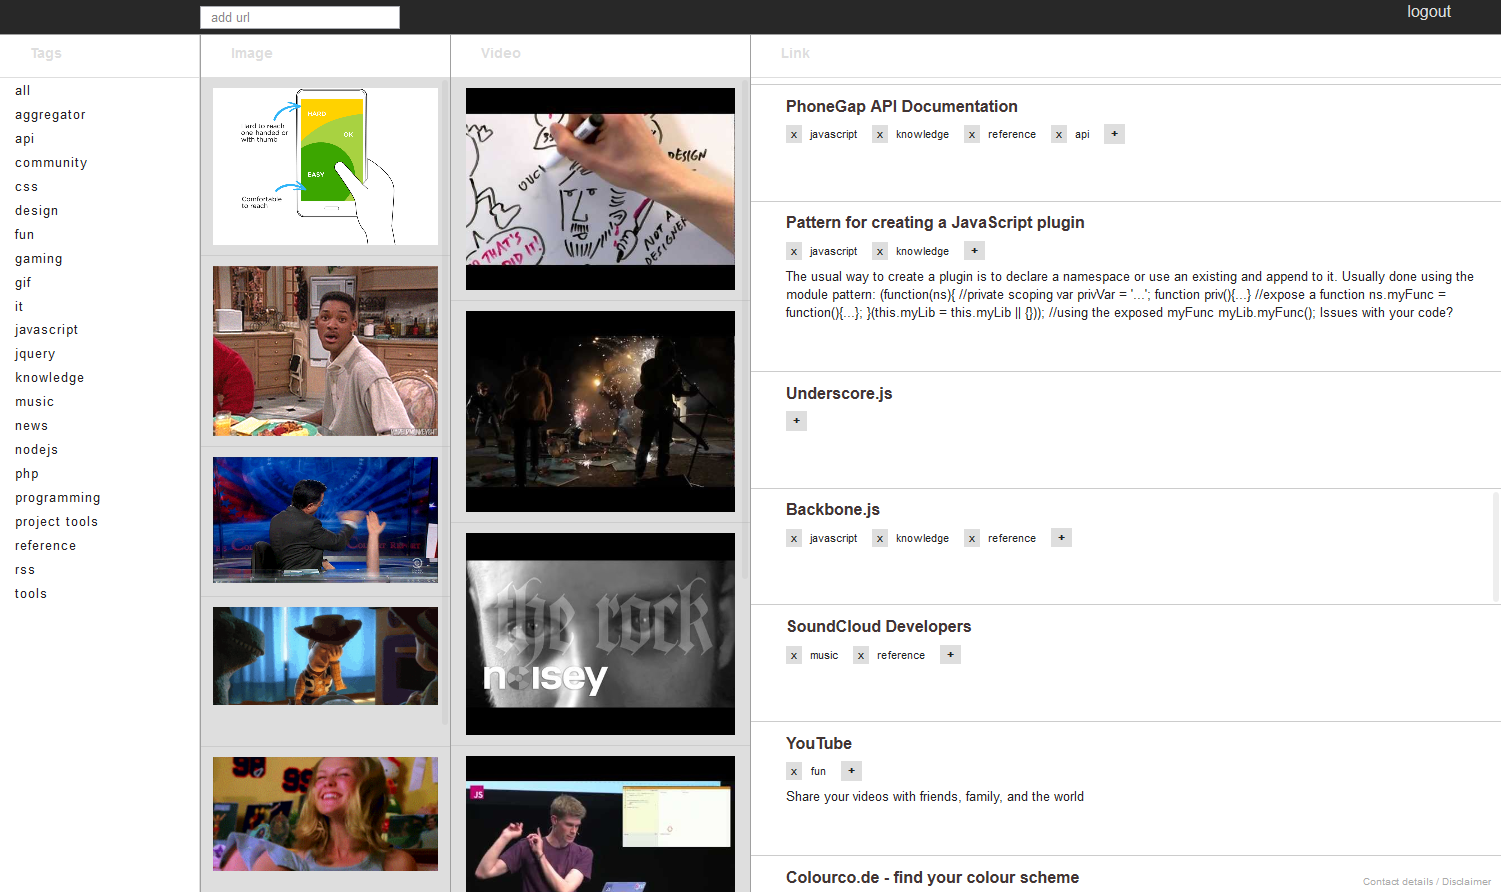
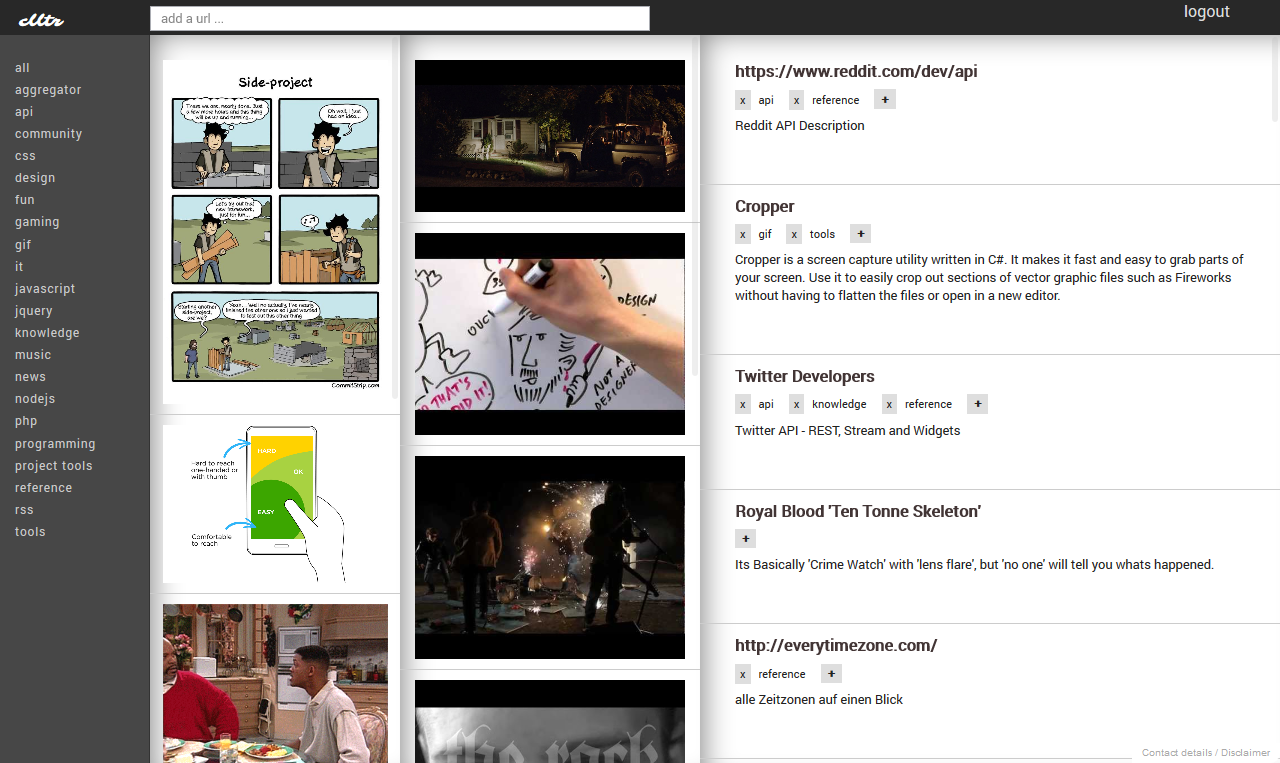
graphical update

diff --git a/style/app.css b/style/app.css
@@ -1,1 +1,1 @@
-/*! normalize.css v3.0.1 | MIT License | git.io/normalize */html{font-family:sans-serif;-ms-text-size-adjust:100%;-webkit-text-size-adjust:100%}body{margin:0}article,aside,details,figcaption,figure,footer,header,hgroup,main,nav,section,summary{display:block}audio,canvas,progress,video{display:inline-block;vertical-align:baseline}audio:not([controls]){display:none;height:0}[hidden],template{display:none}a{background:0 0}a:active,a:hover{outline:0}abbr[title]{border-bottom:1px dotted}b,strong{font-weight:700}dfn{font-style:italic}h1{font-size:2em;margin:.67em 0}mark{background:#ff0;color:#000}small{font-size:80%}sub,sup{font-size:75%;line-height:0;position:relative;vertical-align:baseline}sup{top:-.5em}sub{bottom:-.25em}img{border:0}svg:not(:root){overflow:hidden}figure{margin:1em 40px}hr{-moz-box-sizing:content-box;box-sizing:content-box;height:0}pre{overflow:auto}code,kbd,pre,samp{font-family:monospace,monospace;font-size:1em}button,input,optgroup,select,textarea{color:inherit;font:inherit;margin:0}button{overflow:visible}button,select{text-transform:none}button,html input[type=button],input[type=reset],input[type=submit]{-webkit-appearance:button;cursor:pointer}button[disabled],html input[disabled]{cursor:default}button::-moz-focus-inner,input::-moz-focus-inner{border:0;padding:0}input{line-height:normal}input[type=checkbox],input[type=radio]{box-sizing:border-box;padding:0}input[type=number]::-webkit-inner-spin-button,input[type=number]::-webkit-outer-spin-button{height:auto}input[type=search]{-webkit-appearance:textfield;-moz-box-sizing:content-box;-webkit-box-sizing:content-box;box-sizing:content-box}input[type=search]::-webkit-search-cancel-button,input[type=search]::-webkit-search-decoration{-webkit-appearance:none}fieldset{border:1px solid silver;margin:0 2px;padding:.35em .625em .75em}legend{border:0;padding:0}textarea{overflow:auto}optgroup{font-weight:700}table{border-collapse:collapse;border-spacing:0}td,th{padding:0}/*! HTML5 Boilerplate v4.3.0 | MIT License | http://h5bp.com/ */html{color:#222;font-size:1em;line-height:1.4}::-moz-selection{background:#b3d4fc;text-shadow:none}::selection{background:#b3d4fc;text-shadow:none}hr{display:block;height:1px;border:0;border-top:1px solid #ccc;margin:1em 0;padding:0}audio,canvas,img,svg,video{vertical-align:middle}fieldset{border:0;margin:0;padding:0}textarea{resize:vertical}.browsehappy{margin:.2em 0;background:#ccc;color:#000;padding:.2em 0}.hidden{display:none!important;visibility:hidden}.visuallyhidden{border:0;clip:rect(0 0 0 0);height:1px;margin:-1px;overflow:hidden;padding:0;position:absolute;width:1px}.visuallyhidden.focusable:active,.visuallyhidden.focusable:focus{clip:auto;height:auto;margin:0;overflow:visible;position:static;width:auto}.invisible{visibility:hidden}.clearfix:before,.clearfix:after{content:" ";display:table}.clearfix:after{clear:both}@media print{*{background:transparent!important;color:#000!important;box-shadow:none!important;text-shadow:none!important}a,a:visited{text-decoration:underline}a[href]:after{content:" (" attr(href) ")"}abbr[title]:after{content:" (" attr(title) ")"}a[href^="#"]:after,a[href^="javascript:"]:after{content:""}pre,blockquote{border:1px solid #999;page-break-inside:avoid}thead{display:table-header-group}tr,img{page-break-inside:avoid}img{max-width:100%!important}p,h2,h3{orphans:3;widows:3}h2,h3{page-break-after:avoid}}*{box-sizing:border-box}html,body{height:100%;overflow:hidden}#main{width:100%;height:100%;overflow:hidden}#head{width:100%;height:35px;background-color:#282828;border-bottom:1px solid #A0A0A0}#head #logout{position:absolute;right:50px;color:#DDD}#head #logout:hover{cursor:pointer;text-decoration:underline}#head #addUrl{position:absolute;left:200px;font-size:80%;top:6px}#head #addUrl .loadingIndicator{display:inline-block;visibility:hidden;margin-left:10px;color:#DDD}#head #addUrl button{display:none;width:100px;padding-bottom:1px}#head #addUrl input{padding:2px 10px 3px;width:200px}#tags{position:absolute;top:35px;left:0;bottom:0;width:200px;border-right:1px solid #DEDEDE}#tags .content{overflow-y:auto;height:95%}#tags .tag_item{position:relative;width:100%;font-size:80%;margin-top:2px;text-align:left;letter-spacing:1px}#tags .tag_item span{position:absolute;display:none;right:10px;color:#DEDEDE}#tags .tag_item span:hover{color:#444;cursor:pointer}#tags .tag_item:hover{text-decoration:underline;cursor:pointer}#tags .tag_item:hover span{display:inline-block}#tags .tag_item div{padding:2px 10px 2px 15px}#whatis{text-align:center;padding:20px}#whatis img{box-shadow:1px 10px 10px #444}#libary{position:absolute;top:35px;left:200px;right:0;bottom:0}#libary .list_item{position:relative;padding-bottom:0;cursor:default;border-bottom:1px solid #CCC}#libary #videos,#libary #images{position:absolute;top:0;bottom:0;width:300px;border-left:1px solid #A0A0A0}#libary #videos .control,#libary #images .control,#libary #videos .name,#libary #images .name,#libary #videos .favicon,#libary #images .favicon,#libary #videos .tags,#libary #images .tags{visibility:hidden}#libary #videos .list_item,#libary #images .list_item{background-color:#DEDEDE}#libary #videos .list_item:hover .control,#libary #images .list_item:hover .control,#libary #videos .list_item:hover .name,#libary #images .list_item:hover .name,#libary #videos .list_item:hover .favicon,#libary #images .list_item:hover .favicon,#libary #videos .list_item:hover .tags,#libary #images .list_item:hover .tags{visibility:visible}#libary #videos img,#libary #images img{border:0 none;margin:10px 5%;width:90%}#libary #videos .favicon,#libary #images .favicon{position:absolute;top:4px;left:7%;z-index:1}#libary #videos .favicon img,#libary #images .favicon img{border:0;width:20px;height:20px}#libary #videos .name,#libary #images .name{position:absolute;top:10px;left:5%;right:5%;padding:5px 5px 5px 40px;background-color:#111;opacity:.8;color:#EEE;font-size:80%}#libary #videos .tags,#libary #images .tags{position:absolute;bottom:40px;left:5%;right:5%;padding:3px;background-color:#111;opacity:.8;color:#EEE;font-size:80%}#libary #videos .control,#libary #images .control{position:absolute;bottom:10px;left:5%;right:5%;height:30px;padding:5px 10px 2px;background-color:#111;opacity:.8;color:#EEE;font-size:80%}#libary #videos .control .edit,#libary #images .control .edit,#libary #videos .control .delete,#libary #images .control .delete{cursor:pointer;margin-right:10px;display:inline-block}#libary #videos .control .edit:hover,#libary #images .control .edit:hover,#libary #videos .control .delete:hover,#libary #images .control .delete:hover{text-decoration:underline}#libary #images{left:0;width:250px}#libary #images .list_item{min-height:150px}#libary #videos{left:250px}#libary #links{position:absolute;left:550px;right:0;top:0;bottom:0;border-left:1px solid #A0A0A0}#libary #links .control{visibility:hidden}#libary #links .list_item{padding-left:25px;padding-bottom:40px}#libary #links .list_item:hover .control{visibility:visible}#libary #links .name{width:100%;opacity:.8;color:#130202;font-weight:700;font-size:100%;padding:10px 10px 5px}#libary #links .tags{padding:2px 10px;font-size:70%}#libary #links .tags .tag span{padding:2px 5px}#libary #links .tags .tag:hover span.value{background-color:#DEDEDE}#libary #links .tags .tag span.delete{cursor:pointer;background-color:#DEDEDE}#libary #links .tags .addTag{font-weight:700;font-size:110%;background-color:#DEDEDE;cursor:pointer;padding:1px 7px}#libary #links .tags .addTag,#libary #links .tags .tag{display:inline-block;margin-right:10px}#libary #links .description{font-size:80%;padding:5px 10px 10px}#libary #links .control{position:absolute;left:35px;bottom:20px;font-size:80%}#libary #links .control .edit,#libary #links .control .delete{display:inline-block;margin-right:20px}#libary #links .control .edit:hover,#libary #links .control .delete:hover{text-decoration:underline}#tags h3,#libary h3{padding-top:8px;padding-left:30px;color:#DEDEDE;margin:0;font-size:90%;height:5%;border-bottom:1px solid #DEDEDE}#tags .content,#libary .content{overflow-y:scroll;height:95%}#impressum .back{font-size:14px;margin:0 30%}#impressum .back:hover{text-decoration:underline}#impressum .impContent{position:absolute;top:5%;left:30%;bottom:10%;right:30%;overflow:auto}.editWidget{width:500px;padding:30px}.editWidget .data{width:400px}.editWidget .data input{margin-bottom:5px;width:80%}.editWidget .data textarea{width:100%;height:100px}#impressumLink{position:absolute;bottom:0;right:0;height:20px;background-color:#FFF;z-index:999;font-size:10px;color:#AAA;border-radius:10px 0;padding:2px 10px}#impressumLink:hover{color:#555;cursor:pointer}.overlay{display:none;position:absolute;top:0;left:0;right:0;bottom:0;background-color:#333;opacity:.8;z-index:10}.overlayInner{display:none;position:fixed;top:10%;left:30%;min-width:30%;min-height:30%;padding:10px;opacity:1;border-radius:5px;background-color:#FFF;z-index:11}
+@import url(http://fonts.googleapis.com/css?family=Roboto);@import url(http://fonts.googleapis.com/css?family=Sarina);/*! normalize.css v3.0.1 | MIT License | git.io/normalize */html{font-family:sans-serif;-ms-text-size-adjust:100%;-webkit-text-size-adjust:100%}body{margin:0}article,aside,details,figcaption,figure,footer,header,hgroup,main,nav,section,summary{display:block}audio,canvas,progress,video{display:inline-block;vertical-align:baseline}audio:not([controls]){display:none;height:0}[hidden],template{display:none}a{background:0 0}a:active,a:hover{outline:0}abbr[title]{border-bottom:1px dotted}b,strong{font-weight:700}dfn{font-style:italic}h1{font-size:2em;margin:.67em 0}mark{background:#ff0;color:#000}small{font-size:80%}sub,sup{font-size:75%;line-height:0;position:relative;vertical-align:baseline}sup{top:-.5em}sub{bottom:-.25em}img{border:0}svg:not(:root){overflow:hidden}figure{margin:1em 40px}hr{-moz-box-sizing:content-box;box-sizing:content-box;height:0}pre{overflow:auto}code,kbd,pre,samp{font-family:monospace,monospace;font-size:1em}button,input,optgroup,select,textarea{color:inherit;font:inherit;margin:0}button{overflow:visible}button,select{text-transform:none}button,html input[type=button],input[type=reset],input[type=submit]{-webkit-appearance:button;cursor:pointer}button[disabled],html input[disabled]{cursor:default}button::-moz-focus-inner,input::-moz-focus-inner{border:0;padding:0}input{line-height:normal}input[type=checkbox],input[type=radio]{box-sizing:border-box;padding:0}input[type=number]::-webkit-inner-spin-button,input[type=number]::-webkit-outer-spin-button{height:auto}input[type=search]{-webkit-appearance:textfield;-moz-box-sizing:content-box;-webkit-box-sizing:content-box;box-sizing:content-box}input[type=search]::-webkit-search-cancel-button,input[type=search]::-webkit-search-decoration{-webkit-appearance:none}fieldset{border:1px solid silver;margin:0 2px;padding:.35em .625em .75em}legend{border:0;padding:0}textarea{overflow:auto}optgroup{font-weight:700}table{border-collapse:collapse;border-spacing:0}td,th{padding:0}/*! HTML5 Boilerplate v4.3.0 | MIT License | http://h5bp.com/ */html{color:#222;font-size:1em;line-height:1.4}::-moz-selection{background:#b3d4fc;text-shadow:none}::selection{background:#b3d4fc;text-shadow:none}hr{display:block;height:1px;border:0;border-top:1px solid #ccc;margin:1em 0;padding:0}audio,canvas,img,svg,video{vertical-align:middle}fieldset{border:0;margin:0;padding:0}textarea{resize:vertical}.browsehappy{margin:.2em 0;background:#ccc;color:#000;padding:.2em 0}.hidden{display:none!important;visibility:hidden}.visuallyhidden{border:0;clip:rect(0 0 0 0);height:1px;margin:-1px;overflow:hidden;padding:0;position:absolute;width:1px}.visuallyhidden.focusable:active,.visuallyhidden.focusable:focus{clip:auto;height:auto;margin:0;overflow:visible;position:static;width:auto}.invisible{visibility:hidden}.clearfix:before,.clearfix:after{content:" ";display:table}.clearfix:after{clear:both}@media print{*{background:transparent!important;color:#000!important;box-shadow:none!important;text-shadow:none!important}a,a:visited{text-decoration:underline}a[href]:after{content:" (" attr(href) ")"}abbr[title]:after{content:" (" attr(title) ")"}a[href^="#"]:after,a[href^="javascript:"]:after{content:""}pre,blockquote{border:1px solid #999;page-break-inside:avoid}thead{display:table-header-group}tr,img{page-break-inside:avoid}img{max-width:100%!important}p,h2,h3{orphans:3;widows:3}h2,h3{page-break-after:avoid}}*{box-sizing:border-box}html,body{height:100%;overflow:hidden}#main{width:100%;height:100%;overflow:hidden;font-family:Roboto,sans-serif}#head{width:100%;height:35px;background-color:#282828}#head #logo{font-family:Sarina,cursive;top:10px;left:20px;font-wight:130%;color:#FFF;position:absolute}#head #logout{position:absolute;right:50px;color:#DDD}#head #logout:hover{cursor:pointer;text-decoration:underline}#head #addUrl{position:absolute;left:150px;font-size:80%;top:6px}#head #addUrl .loadingIndicator{display:inline-block;visibility:hidden;margin-left:10px;color:#DDD}#head #addUrl button{display:none;width:100px;padding-bottom:1px}#head #addUrl input{padding:2px 10px 3px;width:500px}#tags{position:absolute;top:35px;left:0;bottom:0;width:150px;font-size:90%;padding-top:20px;background-color:#474747;color:#CCC;overflow-y:auto;border-right:1px solid #333}#tags .tag_item{position:relative;width:100%;font-size:80%;margin-top:2px;text-align:left;letter-spacing:1px}#tags .tag_item span{position:absolute;display:none;right:10px;color:#AAA}#tags .tag_item span:hover{color:#EFEFEF;cursor:pointer}#tags .tag_item:hover{text-decoration:underline;cursor:pointer}#tags .tag_item:hover span{display:inline-block}#tags .tag_item div{padding:2px 10px 2px 15px}#whatis{text-align:center;padding:20px}#whatis img{box-shadow:1px 10px 10px #444}#libary{position:absolute;top:35px;left:150px;right:0;bottom:0}#libary .list_item{position:relative;padding-bottom:0;cursor:default;border-bottom:1px solid #CCC}#libary #videos,#libary #images,#libary #links{overflow-y:scroll;padding-top:15px;padding-bottom:60px;-webkit-box-shadow:inset 16px 11px 29px -13px #878787;-moz-box-shadow:inset 16px 11px 29px -13px #878787;box-shadow:inset 16px 11px 29px -13px #878787}#libary #videos,#libary #images{position:absolute;top:0;bottom:0;width:300px}#libary #videos .control,#libary #images .control,#libary #videos .name,#libary #images .name,#libary #videos .favicon,#libary #images .favicon,#libary #videos .tags,#libary #images .tags{visibility:hidden}#libary #videos .list_item:hover .control,#libary #images .list_item:hover .control,#libary #videos .list_item:hover .name,#libary #images .list_item:hover .name,#libary #videos .list_item:hover .favicon,#libary #images .list_item:hover .favicon,#libary #videos .list_item:hover .tags,#libary #images .list_item:hover .tags{visibility:visible}#libary #videos img,#libary #images img{border:0 none;margin:10px 5%;width:90%}#libary #videos .favicon,#libary #images .favicon{position:absolute;top:4px;left:7%;z-index:1}#libary #videos .favicon img,#libary #images .favicon img{border:0;width:20px;height:20px}#libary #videos .name,#libary #images .name{position:absolute;top:10px;left:5%;right:5%;padding:5px 5px 5px 40px;background-color:#111;opacity:.8;color:#EEE;font-size:80%}#libary #videos .tags,#libary #images .tags{position:absolute;bottom:40px;left:5%;right:5%;padding:3px;background-color:#111;opacity:.8;color:#EEE;font-size:80%}#libary #videos .control,#libary #images .control{position:absolute;bottom:10px;left:5%;right:5%;height:30px;padding:5px 10px 2px;background-color:#111;opacity:.8;color:#EEE;font-size:80%}#libary #videos .control .edit,#libary #images .control .edit,#libary #videos .control .delete,#libary #images .control .delete{cursor:pointer;margin-right:10px;display:inline-block}#libary #videos .control .edit:hover,#libary #images .control .edit:hover,#libary #videos .control .delete:hover,#libary #images .control .delete:hover{text-decoration:underline}#libary #images{left:0;width:250px}#libary #images .list_item{min-height:150px}#libary #videos{left:250px}#libary #links{position:absolute;left:550px;right:0;top:0;bottom:0}#libary #links .control{visibility:hidden}#libary #links .list_item{padding-left:25px;padding-bottom:40px}#libary #links .list_item:hover .control{visibility:visible}#libary #links .name{width:100%;opacity:.8;color:#130202;font-weight:700;font-size:100%;padding:10px 10px 5px}#libary #links .tags{padding:2px 10px;font-size:70%}#libary #links .tags .tag span{padding:2px 5px}#libary #links .tags .tag:hover span.value{background-color:#DEDEDE}#libary #links .tags .tag span.delete{cursor:pointer;background-color:#DEDEDE}#libary #links .tags .addTag{font-weight:700;font-size:110%;background-color:#DEDEDE;cursor:pointer;padding:1px 7px}#libary #links .tags .addTag,#libary #links .tags .tag{display:inline-block;margin-right:10px}#libary #links .description{font-size:80%;padding:5px 10px 10px}#libary #links .control{position:absolute;left:35px;bottom:20px;font-size:80%}#libary #links .control .edit,#libary #links .control .delete{display:inline-block;margin-right:20px}#libary #links .control .edit:hover,#libary #links .control .delete:hover{text-decoration:underline}#impressum .back{font-size:14px;margin:0 30%}#impressum .back:hover{text-decoration:underline}#impressum .impContent{position:absolute;top:5%;left:30%;bottom:10%;right:30%;overflow:auto}.editWidget{width:500px;padding:30px}.editWidget .data{width:400px}.editWidget .data input{margin-bottom:5px;width:80%}.editWidget .data textarea{width:100%;height:100px}#impressumLink{position:absolute;bottom:0;right:0;height:20px;background-color:#FFF;z-index:999;font-size:10px;color:#AAA;border-radius:10px 0;padding:2px 10px}#impressumLink:hover{color:#555;cursor:pointer}.overlay{display:none;position:absolute;top:0;left:0;right:0;bottom:0;background-color:#333;opacity:.8;z-index:10}.overlayInner{display:none;position:fixed;top:10%;left:30%;min-width:30%;min-height:30%;padding:10px;opacity:1;border-radius:5px;background-color:#FFF;z-index:11}

diff --git a/scripts/app.js b/scripts/app.js
@@ -476,9 +476,7 @@ module.exports=require('HZXAze');
 
 })();
 
-},{"backbone":"DIOwA5","jquery":"QRCzyp","underscore":"s12qeW"}],"./client/scripts/pages/libary.page.js":[function(require,module,exports){
-module.exports=require('+qxF5J');
-},{}],"+qxF5J":[function(require,module,exports){
+},{"backbone":"DIOwA5","jquery":"QRCzyp","underscore":"s12qeW"}],"+qxF5J":[function(require,module,exports){
 (function() {
 
     "use strict";
@@ -756,7 +754,7 @@ module.exports=require('+qxF5J');
             addItem     : function(model) {
 
                 var tagItem = new Libary.TagItem({model:model});
-                    tagItem.$el.appendTo(this.$el.find('.content'));
+                    tagItem.$el.appendTo(this.$el);
                     tagItem.render();
             },
 
@@ -765,7 +763,7 @@ module.exports=require('+qxF5J');
                 var that = this;
 
                     that.listenTo(that.collection, 'reset', function() {
-                        that.$el.find('.content').html('');
+                        that.$el.html('');
                     });
 
                     that.listenTo(that.collection, 'destroy', function() {
@@ -785,6 +783,8 @@ module.exports=require('+qxF5J');
                     that.collection.refresh();
             }
         });
+
+
 
         Libary.VideoListItem = Backbone.View.extend({
 
@@ -860,7 +860,7 @@ module.exports=require('+qxF5J');
             addItem     : function(model) {
 
                 var listItem = new Libary.VideoListItem({model:model});
-                    listItem.$el.prependTo(this.$el.find('.content'));
+                    listItem.$el.prependTo(this.$el);
                     listItem.render();
             }
         });
@@ -941,7 +941,7 @@ module.exports=require('+qxF5J');
             addItem     : function(model) {
 
                 var listItem = new Libary.ImageListItem({model:model});
-                    listItem.$el.prependTo(this.$el.find('.content'));
+                    listItem.$el.prependTo(this.$el);
                     listItem.render();
             }
         });
@@ -1026,7 +1026,7 @@ module.exports=require('+qxF5J');
             addItem     : function(model) {
 
                 var listItem = new Libary.LinkListItem({model:model});
-                    listItem.$el.prependTo(this.$el.find('.content'));
+                    listItem.$el.prependTo(this.$el);
                     listItem.render();
             }
         });
@@ -1056,14 +1056,10 @@ module.exports=require('+qxF5J');
                         }
                     });
 
-                    that.listenTo(that.collection, 'sync', function() {
-                        console.log('link_list: ' + that.vLinksList.$el.find('.list_item').length);
-                    });
-
                     that.listenTo(that.collection, 'reset', function() {
-                        that.vLinksList.$el.find('.content').html('');
-                        that.vImagesist.$el.find('.content').html('');
-                        that.vVideosList.$el.find('.content').html('');
+                        that.vLinksList.$el.html('');
+                        that.vImagesist.$el.html('');
+                        that.vVideosList.$el.html('');
                     });
 
                     that.collection.refresh();
@@ -1106,7 +1102,9 @@ module.exports=require('+qxF5J');
 
 })();
 
-},{"../modules/helper.module.js":2,"../modules/list.module.js":3,"../modules/tags.module.js":6,"../modules/user.module.js":7,"backbone":"DIOwA5","jquery":"QRCzyp","underscore":"s12qeW","when":"My0/Wt"}],"./client/scripts/pages/whatis.page.js":[function(require,module,exports){
+},{"../modules/helper.module.js":2,"../modules/list.module.js":3,"../modules/tags.module.js":6,"../modules/user.module.js":7,"backbone":"DIOwA5","jquery":"QRCzyp","underscore":"s12qeW","when":"My0/Wt"}],"./client/scripts/pages/libary.page.js":[function(require,module,exports){
+module.exports=require('+qxF5J');
+},{}],"./client/scripts/pages/whatis.page.js":[function(require,module,exports){
 module.exports=require('5UBb1x');
 },{}],"5UBb1x":[function(require,module,exports){
 (function() {

diff --git a/templates/pages/libary.html b/templates/pages/libary.html
@@ -1,1 +1,1 @@
-<div id="head"><div id="addUrl"><input placeholder="add url"> <span class="loadingIndicator">try to fetch Page Data ...</span></div><div id="logout">logout</div></div><div id="libary"><div id="videos"><h3>Video</h3><div class="content"></div></div><div id="images"><h3>Image</h3><div class="content"></div></div><div id="links"><h3>Link</h3><div class="content"></div></div></div><div id="tags"><h3>Tags</h3><div class="content"></div></div>
+<div id="head"><div id="logo">clltr</div><div id="addUrl"><input placeholder="add a url ... "> <span class="loadingIndicator">try to fetch Page Data ...</span></div><div id="logout">logout</div></div><div id="libary"><div id="videos"></div><div id="images"></div><div id="links"></div></div><div id="tags"></div>
